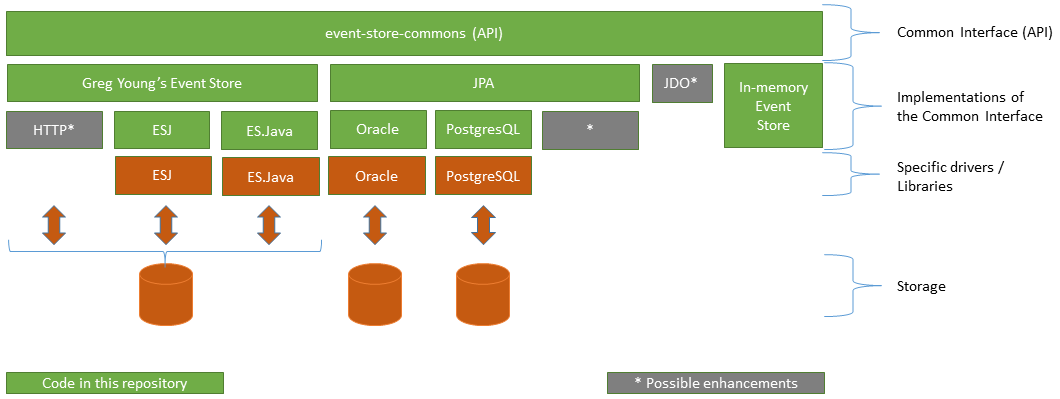
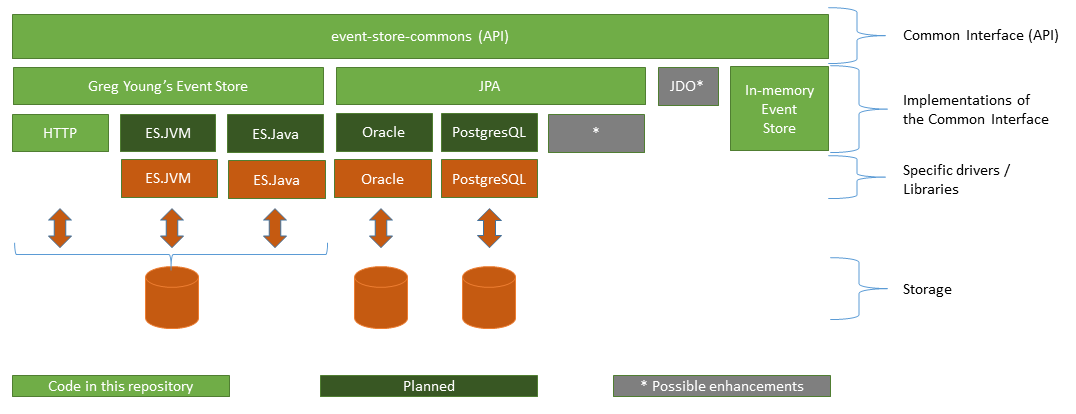
Added doc

diff --git a/README.md b/README.md
@@ -15,4 +15,4 @@ Defines a common event store Java interface and provides some adapters (like for
 
 # Architecture
 ![Layers](https://raw.github.com/fuinorg/event-store-commons/master/doc/event-store-commons.png)
-                                      
+See [ES.JVM](https://github.com/EventStore/EventStore.JVM) / [ES.Java](https://github.com/jen20/EventStore.Java)
